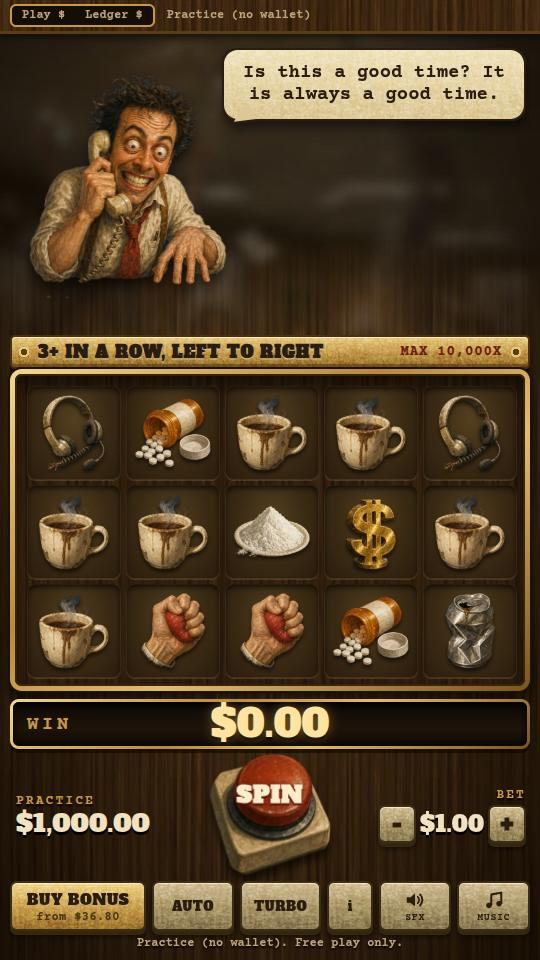
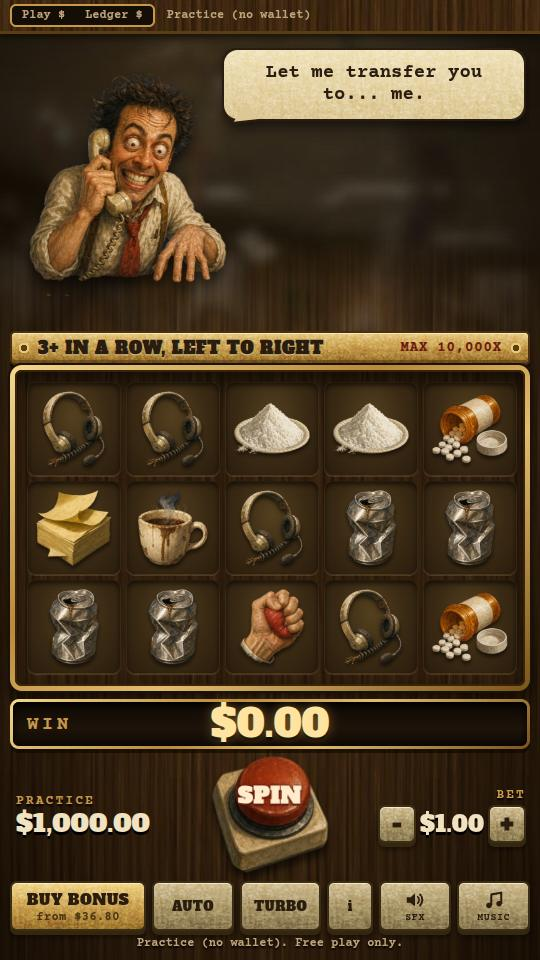
COLD CALL skin wave follow-up: size-agnostic board (--cols/--rows/--cell/--gap), ?mock=6x5 proof shot, extras in the manifest, CC.hero.mood()

diff --git a/public/games/coldcall/style.css b/public/games/coldcall/style.css
@@ -19,7 +19,7 @@
   /* field tiers, inked on the cream carbon slip */
   --tier-mini:#2f5f73; --tier-minor:#3b6a22; --tier-major:#8a2a1a; --tier-mega:#8a5a0c; --grand:#a3281b;
   --display:"Alfa Slab One",Georgia,"Times New Roman",serif; --font:"Courier Prime","Courier New",monospace; --memo:"Special Elite","Courier Prime","Courier New",monospace;
-  --cell:94px; --gap:5px; --s:.4; --H:960px;
+  --cols:5; --rows:3; --cell:94px; --gap:5px; --s:.4; --H:960px;
 }
 *{box-sizing:border-box;margin:0;padding:0;-webkit-tap-highlight-color:transparent}
 html,body{width:100%;height:100%;overflow:hidden;background:var(--bg);color:var(--ink);font-family:var(--font);font-weight:700;user-select:none;-webkit-user-select:none;touch-action:manipulation}
@@ -40,7 +40,7 @@ button[disabled]{opacity:.4;pointer-events:none}
 /* idle / hidden / docked: freeze every looping animation */
 #app.calm *,#app.calm *::before,#app.calm *::after{animation-play-state:paused !important}
 
-#shake{inset:0;display:grid;grid-template-columns:520px;justify-content:center;grid-template-rows:minmax(150px,1fr) 34px 322px 58px auto;row-gap:0;padding:40px 0 10px}
+#shake{inset:0;display:grid;grid-template-columns:520px;justify-content:center;grid-template-rows:minmax(150px,1fr) 34px calc(var(--rows) * var(--cell) + (var(--rows) - 1) * var(--gap) + 34px) 58px auto;   /* board row = grid + frame, so any --cols/--rows/--cell drops in */row-gap:0;padding:40px 0 10px}
 #shake>*{position:relative;grid-column:1}
 
 /* ---- head: hero + caption ---- */
@@ -70,10 +70,10 @@ button[disabled]{opacity:.4;pointer-events:none}
   background:linear-gradient(rgba(16,9,3,.62),rgba(16,9,3,.62)) padding-box,var(--img-wood) 0 0/256px padding-box,var(--brass-grad) border-box;
   box-shadow:inset 0 0 0 2px rgba(60,36,8,.9),inset 0 10px 26px rgba(0,0,0,.7),0 0 0 2px #1c1106,0 8px 16px rgba(0,0,0,.65)}
 #board>*{grid-area:1/1;position:relative}
-.slots,#reels{display:grid;grid-template-columns:repeat(5,var(--cell));grid-template-rows:repeat(3,var(--cell));gap:var(--gap)}
+.slots,#reels{display:grid;grid-template-columns:repeat(var(--cols),var(--cell));grid-template-rows:repeat(var(--rows),var(--cell));gap:var(--gap);justify-content:center}
 .slots i{display:block;border-radius:9px;background:radial-gradient(ellipse at 50% 36%,var(--tile-lit) 0%,#3a2a14 52%,var(--tile) 100%);box-shadow:inset 0 3px 6px rgba(0,0,0,.7),inset 0 0 0 1px rgba(200,152,74,.2),0 1px 0 rgba(255,225,160,.14)}
 #reels{grid-template-rows:var(--cell)}
-.reel{position:relative;grid-row:1/-1;height:calc(var(--cell) * 3 + var(--gap) * 2);overflow:hidden;border-radius:9px}
+.reel{position:relative;grid-row:1/-1;height:calc(var(--rows) * var(--cell) + (var(--rows) - 1) * var(--gap));overflow:hidden;border-radius:9px}
 .reel.tease{box-shadow:0 0 0 3px var(--brass-hi),0 0 22px 4px rgba(240,208,131,.6);animation:teasepulse .4s ease-in-out infinite alternate}
 @keyframes teasepulse{from{box-shadow:0 0 0 3px var(--brass-hi),0 0 10px 2px rgba(240,208,131,.4)}to{box-shadow:0 0 0 3px var(--brass-hi),0 0 26px 6px rgba(240,208,131,.8)}}
 .strip{position:absolute;left:0;top:0;width:100%;display:grid;grid-auto-rows:var(--cell);row-gap:var(--gap);will-change:transform}

diff --git a/public/games/coldcall/qa.js b/public/games/coldcall/qa.js
@@ -5,6 +5,7 @@
    shot=bigwin                      big-win overlay (x412, $412.00, MEGA), waits for a tap
    shot=buy | shot=info             buy modal -> confirm step | pay table
    shot=spin                        removes the splash and presses SPIN (combine with &force=rotary|quote|big)
+   ?mock=6x5                        static 6x5 board mock (30 cells, current symbols, a lit cluster, no game logic) to judge symbol readability at ~78 px
    shot=quote_grand                 practice engine with respin landing chance 1 (every box fills) then plays a bought QUOTE round (PAYMENT ACCEPTED) */
 (() => {
   const CC = window.CC, Q = new URLSearchParams(location.search), shot = Q.get('shot'), $ = (id) => document.getElementById(id);
@@ -13,6 +14,18 @@
     while (!CC.ready) await new Promise((r) => setTimeout(r, 50));
     if (shot !== 'splash') { const sp = $('splash'); if (sp) sp.remove(); }
     CC.qa = { shot };
+    if (Q.get('mock') === '6x5') {   // layout only: the skin depends on --cols/--rows/--cell/--gap, nothing else
+      const st = document.getElementById('stage').style; st.setProperty('--cols', 6); st.setProperty('--rows', 5); st.setProperty('--cell', '78px'); st.setProperty('--gap', '3px');
+      const slots = $('slots'), reels = $('reels'), ids = ['cash', 'pile', 'rx', 'headset', 'can', 'mug', 'note', 'ball', 'closer', 'quote', 'phone', 'upsell'];
+      slots.replaceChildren(...Array.from({ length: 30 }, () => document.createElement('i'))); reels.replaceChildren();
+      const lit = new Set(['1,1', '1,2', '2,2', '2,3', '3,2']);   // an example winning cluster
+      for (let c = 0; c < 6; c++) {
+        const reel = document.createElement('div'); reel.className = 'reel'; reel.style.gridColumn = c + 1; const strip = document.createElement('div'); strip.className = 'strip';
+        for (let r = 0; r < 5; r++) { const cell = CC.core.symNode(ids[(c * 5 + r * 3 + c) % ids.length]); const k = c + ',' + r; cell.classList.add(lit.has(k) ? 'hit' : 'dim'); if (!lit.has(k) && (c + r) % 3) cell.classList.remove('dim'); strip.appendChild(cell); }
+        reel.appendChild(strip); reels.appendChild(reel);
+      }
+      CC.hero.set('hype', 0); CC.core.say('smallWin'); return;
+    }
     if (MOOD[shot]) { CC.hero.set(shot, 0); CC.core.say(MOOD[shot]); }
     else if (shot === 'bigwin') CC.core.bigWin(412, 41200, 'mega');
     else if (shot === 'info') $('info').click();

diff --git a/public/games/coldcall/assets.js b/public/games/coldcall/assets.js
@@ -12,6 +12,7 @@
   A.moodUrl = (m) => (!m || m === 'idle' ? A.heroUrl() : moods()[m] ? abs(moods()[m].file) : A.heroUrl());
   A.mouth = (m) => (m && moods()[m] && moods()[m].mouth) || (A.man && A.man.hero.mouth) || { x: 0.5, y: 0.3 };
   A.pieceUrl = (id) => (A.man && A.man.pieces && A.man.pieces[id] ? abs(A.man.pieces[id]) : '');
+  A.extraUrl = (id) => (A.man && A.man.extras && A.man.extras[id] ? abs(A.man.extras[id]) : '');   // preloaded + decoded, not used by the screens yet
   A.texUrl = (id) => (A.man && A.man.textures && A.man.textures[id] ? abs(A.man.textures[id]) : '');
   // preload + decode every image once (during the splash) so the first spin never hitches. onStep(done, total) for the splash label.
   A.load = async (onStep) => {
@@ -22,7 +23,7 @@
     const root = document.documentElement.style;
     root.setProperty('--img-bg', `url("${A.bgUrl()}")`);
     pcs.forEach((k) => root.setProperty('--img-' + k, `url("${A.pieceUrl(k)}")`)); txs.forEach((k) => root.setProperty('--img-' + k, `url("${A.texUrl(k)}")`));
-    const urls = [...new Set([...Object.keys(man.symbols).map(A.symUrl), A.heroUrl(), A.bgUrl(), ...mds.map(A.moodUrl), ...pcs.map(A.pieceUrl), ...txs.map(A.texUrl)])];
+    const urls = [...new Set([...Object.keys(man.symbols).map(A.symUrl), A.heroUrl(), A.bgUrl(), ...mds.map(A.moodUrl), ...pcs.map(A.pieceUrl), ...txs.map(A.texUrl), ...Object.keys(man.extras || {}).map(A.extraUrl)])];
     const fonts = (man.fonts || []).map((f) => document.fonts.load('16px "' + f + '"').catch(() => {}));   // faces are declared in style.css; load them during the splash too
     let done = 0;
     await Promise.all(urls.map(async (u) => {

diff --git a/public/games/coldcall/game.js b/public/games/coldcall/game.js
@@ -401,7 +401,7 @@
     await CC.assets.load((d, n) => { go.textContent = 'Loading ' + d + '/' + n; });
     const hero = $('hero'); hero.src = CC.assets.heroUrl(); try { await hero.decode(); } catch (e) { /* shown anyway */ }
     $('splashHero').src = CC.assets.heroUrl();
-    if (Q.has('shot')) { const qs = document.createElement('script'); qs.src = 'qa.js'; document.head.appendChild(qs); }   // QA shot flag: see qa.js
+    if (Q.has('shot') || Q.has('mock')) { const qs = document.createElement('script'); qs.src = 'qa.js'; document.head.appendChild(qs); }   // QA shot flag: see qa.js
     idleGrid(); $('ribR').textContent = 'MAX ' + E.MAX_WIN_X.toLocaleString('en-US') + 'x';
     CC.caption.say('idle'); drawBet();
     const start = () => { SFX_.init(); splash.classList.add('out'); SFX_.music('base'); setTimeout(() => splash.remove(), 600); wake(); };

diff --git a/qa/coldcall-skin/capture/skin_static.js b/qa/coldcall-skin/capture/skin_static.js
@@ -11,6 +11,7 @@ const only = process.argv.slice(2);
     if (want('bigwin')) { await ready('?shot=bigwin'); await sleep(6500); await shot(page, 'bigwin_overlay'); await page.mouse.click(270, 400); await sleep(2800); await shot(page, 'bigwin_closed'); }
     if (want('buy')) { await ready('?shot=buy'); await sleep(900); await shot(page, 'buy_confirm'); }
     if (want('info')) { await ready('?shot=info'); await sleep(900); await shot(page, 'info_modal'); }
+    if (want('mock')) { await ready('?mock=6x5'); await sleep(900); await shot(page, 'board_6x5_mock'); }
     console.log('done');
   } finally { console.log(logs.filter((l) => !/404/.test(l)).join('\n')); await b.browser.close(); }
 })().catch((e) => { console.error(e); process.exit(1); });

diff --git a/public/games/coldcall/hero.js b/public/games/coldcall/hero.js
@@ -10,5 +10,8 @@
   };
   function set(m, ms = 1600) { clearTimeout(t); show(m); if (m !== 'idle' && ms > 0) t = setTimeout(() => show('idle'), ms); }
   function img(m, cls) { const im = document.createElement('img'); im.src = CC.assets.moodUrl(m); im.alt = ''; im.draggable = false; im.decoding = 'sync'; if (cls) im.className = cls; return im; }
-  CC.hero = { set, img, cur: () => cur };
+  const HOLD = { idle: 0, hype: 2000, shock: 2200, rage: 2400, win: 3000 };
+  // one call for the game/board code: CC.hero.mood('shock') (default hold per mood, or pass ms)
+  const mood = (m, ms) => set(m, ms == null ? HOLD[m] : ms);
+  CC.hero = { set, mood, img, cur: () => cur };
 })();

diff --git a/cold-call/art/skin_export.py b/cold-call/art/skin_export.py
@@ -10,6 +10,7 @@ def bbox(im): return im.getchannel('A').point(lambda v: 255 if v > 24 else 0).ge
 idle = Image.open(os.path.join(CUT, 'hero_idle.png')).convert('RGBA'); CW = idle.size[0]
 ib = bbox(idle)
 MOODS = ['hype', 'shock', 'win', 'rage']
+EXTRAS = ['cups', 'bell', 'quote_bronze', 'quote_silver', 'quote_gold']     # -> extra_<id>.webp at 256 px (cashwad, cardmachine, seal reuse their piece files)
 PIECES = {'spin': 256, 'seal': 300, 'cardmachine': 340, 'card': 300, 'cashwad': 300, 'phone_gold': 300}
 def defringe(im):                          # the sheet's slate-blue survives on soft edges of some cuts: pull blue down on translucent pixels
     a = np.asarray(im).astype(np.int32); edge = (a[..., 3] > 0) & (a[..., 3] < 250)
@@ -27,3 +28,7 @@ if __name__ == '__main__':
         im = defringe(Image.open(os.path.join(CUT, n + '.png')).convert('RGBA')); k = s / max(im.size)
         if k < 1: im = im.resize((round(im.width * k), round(im.height * k)), Image.LANCZOS)
         save(im, n)
+    for n in EXTRAS:
+        im = defringe(Image.open(os.path.join(CUT, n + '.png')).convert('RGBA')); k = 256 / max(im.size)
+        if k < 1: im = im.resize((round(im.width * k), round(im.height * k)), Image.LANCZOS)
+        save(im, 'extra_' + n)

diff --git a/PROGRESS-CC.md b/PROGRESS-CC.md
@@ -260,3 +260,12 @@ Back to `idle` after the hold, and instantly when the next spin starts. All five
 3. QUOTE screen: the content is centred so there is an empty band above the title and below the desk objects; card machine and card are static decoration (not tied to the payout). ROTARY free-spin win floats can still overlap each other (existing behaviour, not touched).
 - Unverified: a real touch screen or phone GPU (software GL only; 15 `drop-shadow` symbols, the 5-shadow bubble outline and `background-blend-mode` layers are untimed), Safari rendering of `paint-order`/`mask`, audio (nobody listened). `?shot=` flag ships in the public bundle (`qa.js` is only fetched when the URL asks for it and changes no rules). Near miss `shock` is checked on a flag and on 5 natural rounds; a near miss that also wins shows `hype`, by design.
 - Commit `8d7a931` (skin wave 1+4) was committed without the `Co-Authored-By` trailer; it was already pushed, so I left it alone. Later commits carry it. The CSS is one file, so the four commits are by step of work, not by file.
+
+
+## Skin wave follow-up (steer after the engine change to a 6x5 cluster/cascade game)
+Kept: base skin, splash, hero moods, bakelite dial. QUOTE ACCEPTED screen left as committed (e5a6af6), no more work on it (record shot `quote_midfill` only).
+- **Size-agnostic board:** `:root` has `--cols:5 --rows:3 --cell:94px --gap:5px`; `.slots`, `#reels`, `.reel` height and the board row height of `#shake` are all computed from them (grid + 34 px frame), cell backgrounds and the win highlight use no pixel sizes. A 6x5 board drops in by setting the four variables on `#stage`; the game code still builds 5x3 (`COLS`/`ROWS` come from the engine), I did not rebuild the board.
+- **`?mock=6x5`** (`qa.js`, layout only, no game logic): 30 cells at `--cell:78px --gap:3px` (6 x 78 + 5 x 3 = 483 fits the 520 px frame; 80 px cells would need a 3 px gap and slimmer frame padding), current symbols, one lit cluster. Shot `qa/coldcall-skin/board_6x5_mock.jpg`: symbols stay readable at 78 px; the lit cluster and dimmed cells read. Cost: the board row grows from 326 to 436 px, so the head row drops to its 150 px minimum on a 960 px stage and the hero's feet tuck under the ribbon (taller windows give it more room).
+- **Extras** (`assets/symbols.json` -> `extras`, decoded in the splash through `CC.assets.extraUrl(id)`, not used by any screen): `cups`, `bell`, `quote_bronze`, `quote_silver`, `quote_gold` exported at 256 px (`extra_<id>.webp`, `cold-call/art/skin_export.py`; the three `quote_*` PNGs were only read, not staged); `cashwad`, `cardmachine`, `seal` point at their existing piece files (300/300/340 px, not re-exported smaller). `assets/img` is 674 KB.
+- **Mood API:** `CC.hero.mood('shock')` (default hold per mood: hype 2.0 s, shock 2.2 s, rage 2.4 s, win 3.0 s, or pass ms); `CC.hero.set(mood, ms)` is the same call with an explicit hold. The map is unchanged; "near miss" is still the reel-5 tease or two phones until the scatter tease replaces it.
+- Not touched: `games/`, either engine copy, `tests/`, `server.js`. Tests re-run below.
